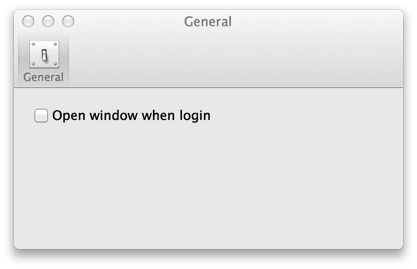
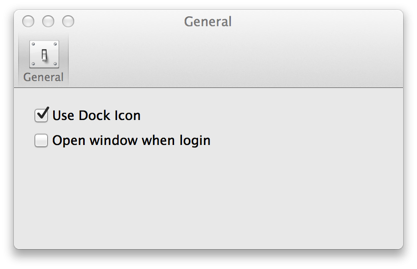
Site updated at 2013-11-22 15:13:55 UTC

Changed region(s): [[0.0624, 0.5056, 0.53, 0.5651], [0.0935, 0.3866, 0.53, 0.4461], [0.0935, 0.4758, 0.1247, 0.5056]]

diff --git a/mac/jsonxmlformat/index.html b/mac/jsonxmlformat/index.html
@@ -9,7 +9,7 @@
   <meta name="author" content="tmyam">
 
   
-  <meta name="description" content="JsonXmlFormat 2013年11月17日 &nbsp;&nbsp;version 1.0.0 Description: JsonXmlFormat is a tool which can format json and xml.It have the following &hellip;">
+  <meta name="description" content="JsonXmlFormat 2013年11月17日 &nbsp;&nbsp;version 1.1.0 Description: JsonXmlFormat is a tool which can format json and xml.It have the following &hellip;">
   
 
   <!-- http://t.co/dKP3o1e -->
@@ -117,7 +117,7 @@ $(document).bind('DOMNodeInserted', function(event) {
   </header>
   
   <p><img src="/mac/jsonxmlformat/icon.png" alt="icon" /> <br/>
-&nbsp;&nbsp;<strong><code>version 1.0.0</code></strong></p>
+&nbsp;&nbsp;<strong><code>version 1.1.0</code></strong></p>
 
 <p><a href="https://itunes.apple.com/us/app/jsonxmlconvert/id755258888" target="itunes_store"style="display:inline-block;overflow:hidden;background:url(https://linkmaker.itunes.apple.com/htmlResources/assets/en_us//images/web/linkmaker/badge_macappstore-lrg.png) no-repeat;width:165px;height:40px;@media only screen{background-image:url(https://linkmaker.itunes.apple.com/htmlResources/assets/en_us//images/web/linkmaker/badge_macappstore-lrg.svg);}"></a></p>
 
@@ -129,7 +129,8 @@ $(document).bind('DOMNodeInserted', function(event) {
 <p><strong>JsonXmlFormat</strong> is a tool which can format json and xml.It have the following functions: <br/>
 &nbsp;&nbsp;&nbsp;&nbsp;1. Do the accuracy check of json’s or xml’s format and can be formatted output and can customize the output style.   <br/>
 &nbsp;&nbsp;&nbsp;&nbsp;2. Support UTF-8 coded text, furthermore can not be garbled.  <br/>
-&nbsp;&nbsp;&nbsp;&nbsp;3. It has the status bar icon, open more simple.</p>
+&nbsp;&nbsp;&nbsp;&nbsp;3. It has the status bar icon, open more simple. <br/>
+&nbsp;&nbsp;&nbsp;&nbsp;4. Allow Dock icon to show or hide.</p>
 
 <ul>
 <li><h3>Languages:</h3></li>
@@ -175,11 +176,23 @@ support: <a href="http://tmyam.github.com/mac/jsonxmlformat/support">http://tmya
 
 
 <ul>
+<li>2013.11.22  &ndash; <code>version 1.1.0</code> update</li>
+</ul>
+
+
+<p>1.&nbsp;allow Dock icon to show or hide.</p>
+
+<hr />
+
+<br/>
+
+
+<ul>
 <li>2013.11.21  &ndash; <code>version 1.0.0</code> release</li>
 </ul>
 
 
-<p>1.&nbsp;1. Do the accuracy check of json’s or xml’s format and can be formatted output and can customize the output style.     <br/>
+<p>1.&nbsp;Do the accuracy check of json’s or xml’s format and can be formatted output and can customize the output style.     <br/>
 2.&nbsp;Support UTF-8 coded text,furthermore,can not be garbled.  <br/>
 3.&nbsp;It has the status bar icon, open more simple.</p>
 

diff --git a/mac/index.html b/mac/index.html
@@ -139,7 +139,7 @@ home page: <a href="http://tmyam.github.com/mac/jsonxmlconvert">http://tmyam.git
 &nbsp;&nbsp;&nbsp;&nbsp;&nbsp;&nbsp;&nbsp;&nbsp;&nbsp;&nbsp;&nbsp;&nbsp;&nbsp;
 &nbsp;&nbsp;&nbsp;&nbsp;&nbsp;&nbsp;&nbsp;&nbsp;&nbsp;&nbsp;&nbsp;&nbsp;&nbsp;&nbsp;&nbsp;&nbsp;
 <a href="https://itunes.apple.com/us/app/jsonxmlconvert/id755258888" align="right" target="itunes_store"style="display:inline-block;overflow:hidden;background:url(https://linkmaker.itunes.apple.com/htmlResources/assets/en_us//images/web/linkmaker/badge_macappstore-lrg.png) no-repeat;width:165px;height:40px;@media only screen{background-image:url(https://linkmaker.itunes.apple.com/htmlResources/assets/en_us//images/web/linkmaker/badge_macappstore-lrg.svg);}"></a> <br/>
-&nbsp;<code>1.0.0</code> <br/>
+&nbsp;<code>1.1.0</code> <br/>
 home page: <a href="http://tmyam.github.com/mac/jsonxmlformat">http://tmyam.github.com/mac/jsonxmlformat</a></p>
 
 <hr />

diff --git a/mac/jsonxmlformat/help/index.html b/mac/jsonxmlformat/help/index.html
@@ -9,7 +9,7 @@
   <meta name="author" content="tmyam">
 
   
-  <meta name="description" content="JsonXmlFormat Help 2013年11月17日 Icon &nbsp;&nbsp;version 1.0.0
+  <meta name="description" content="JsonXmlFormat Help 2013年11月17日 Icon &nbsp;&nbsp;version 1.1.0
 Main Window input: You can input json or xml text, the software will automatically &hellip;">
   
 
@@ -121,7 +121,7 @@ $(document).bind('DOMNodeInserted', function(event) {
 <li><h3>Icon</h3>
 
 <p><img src="/mac/jsonxmlformat/icon.png" alt="icon" /> <br/>
-&nbsp;&nbsp;<strong><code>version 1.0.0</code></strong></p></li>
+&nbsp;&nbsp;<strong><code>version 1.1.0</code></strong></p></li>
 <li><h3>Main Window</h3>
 
 <p><img src="/mac/jsonxmlformat/help_main.png" alt="icon" /></p></li>
